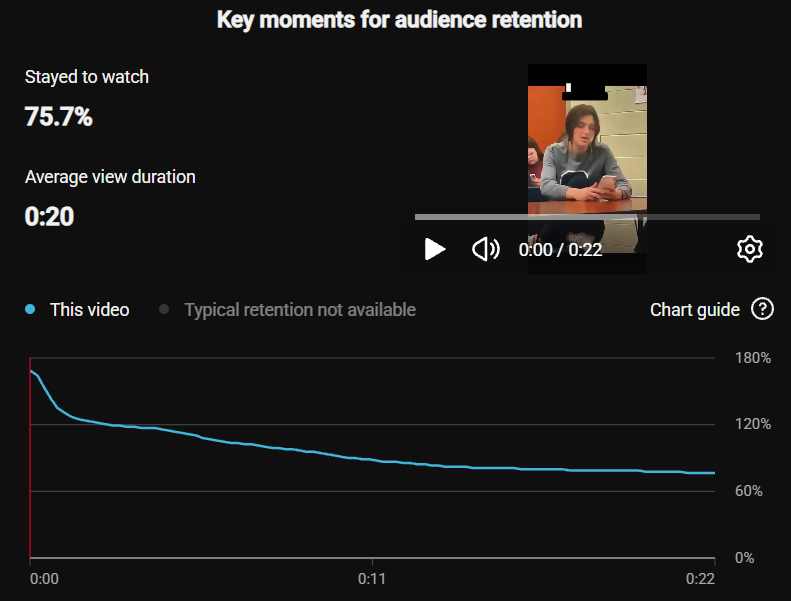
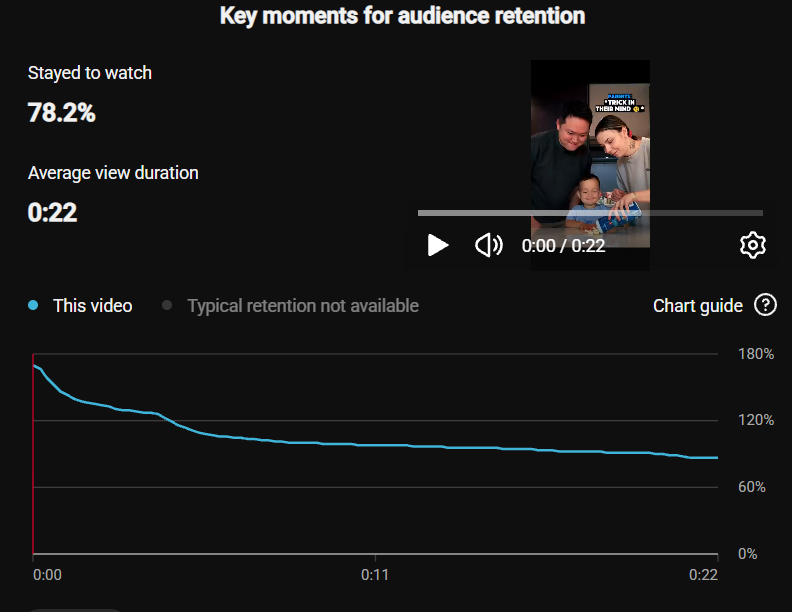
Nouveau meilleur short Still Good Here et nouvelle grille de prix
- Meilleur short Still Good Here : -D3tYyXXEng (86,4 M de vues,
  +60,9 K abonnés, 78,2 % de rétention), captures recadrées.
- crop-proofs gère les captures sans ligne de titre en coupant la
  colonne des revenus au lieu de la ligne des tuiles.
- Offres Pilote (3 shorts, 120 €), Starter (8, 600 €), Growth (12,
  840 €) et Scale (20, 1 300 €) ; dollars à 1,12 arrondis en prix
  psychologiques (139 / 679 / 949 / 1 449 $). Le pilote reste
  déductible du premier mois sous 14 jours.
- Badge du lecteur plus compact pour tenir sur mobile.

diff --git a/src/data/shared.ts b/src/data/shared.ts
@@ -30,7 +30,7 @@ export const shared: SharedData = {
       monetizedInWeeks: 3,
       views: 151_389_714,
       subscribers: 68_000,
-      bestShort: { youtubeId: 'EwW3RtiN73U', views: 37_869_620, subscribersGained: 15_000, stayedToWatch: 75.7 },
+      bestShort: { youtubeId: '-D3tYyXXEng', views: 86_400_000, subscribersGained: 60_900, stayedToWatch: 78.2 },
       proofs: [
         { kind: 'shortViews', image: sghShortViews },
         { kind: 'shortRetention', image: sghShortRetention },
@@ -71,13 +71,14 @@ export const shared: SharedData = {
     },
   ],
 
+  // Prices per month. USD = EUR × 1.12 (rate of late October 2026), rounded to a price ending in 9.
   pricing: {
     packages: [
-      { id: 'starter', shorts: 8, price: { eur: 400, usd: 450 } },
-      { id: 'growth', shorts: 12, price: { eur: 540, usd: 600 }, featured: true },
-      { id: 'scale', shorts: 20, price: { eur: 800, usd: 890 } },
+      { id: 'starter', name: 'Starter', shorts: 8, price: { eur: 600, usd: 679 } },
+      { id: 'growth', name: 'Growth', shorts: 12, price: { eur: 840, usd: 949 }, featured: true },
+      { id: 'scale', name: 'Scale', shorts: 20, price: { eur: 1300, usd: 1449 } },
     ],
-    trial: { shorts: 3, price: { eur: 90, usd: 99 }, deductibleWithinDays: 14 },
+    pilot: { shorts: 3, price: { eur: 120, usd: 139 }, deductibleWithinDays: 14 },
     availability: { show: false, spots: 0 },
   },
 

diff --git a/src/data/types.ts b/src/data/types.ts
@@ -15,8 +15,9 @@ export interface SharedData {
   channels: Channel[];
   demos: Demo[];
   pricing: {
-    packages: Array<{ id: string; shorts: number; price: Record<Currency, number>; featured?: boolean }>;
-    trial: { shorts: number; price: Record<Currency, number>; deductibleWithinDays: number };
+    packages: Array<{ id: string; name: string; shorts: number; price: Record<Currency, number>; featured?: boolean }>;
+    /** One-off first order, to test the collaboration before a monthly plan. */
+    pilot: { shorts: number; price: Record<Currency, number>; deductibleWithinDays: number };
     /** Shows "X spots left" above the plans when `show` is true. */
     availability: { show: boolean; spots: number };
   };
@@ -137,7 +138,7 @@ export interface Dictionary {
     spotsLeft: string;
     included: { title: string; items: string[] };
     delivery: string;
-    trial: { title: string; text: string };
+    pilot: { title: string; text: string };
     cta: string;
     notes: string[];
   };

diff --git a/src/data/fr.ts b/src/data/fr.ts
@@ -112,9 +112,9 @@ const fr: Dictionary = {
     },
     delivery:
       'Premiers shorts sous 5 jours ouvrés, puis un nouveau lot chaque semaine. Un tour de retouches par short, traité sous 48 h.',
-    trial: {
-      title: 'Pas encore sûr ? Commence par un essai.',
-      text: '{count} shorts pour {price}, déduits de ton premier mois si tu continues dans les {days} jours.',
+    pilot: {
+      title: 'Pas encore sûr ? Commence par le pilote.',
+      text: 'Pilote : {count} shorts pour {price} ({unit} par short), déduits de ton premier mois si tu continues dans les {days} jours.',
     },
     cta: 'Recevoir ma proposition',
     notes: [

diff --git a/src/data/en.ts b/src/data/en.ts
@@ -110,9 +110,9 @@ const en: Dictionary = {
       ],
     },
     delivery: 'First Shorts within 5 working days, then a new batch every week. One round of revisions per Short, done within 48 hours.',
-    trial: {
-      title: 'Not sure yet? Start with a trial.',
-      text: '{count} Shorts for {price}, deducted from your first month if you continue within {days} days.',
+    pilot: {
+      title: 'Not sure yet? Start with a pilot.',
+      text: 'Pilot: {count} Shorts for {price} ({unit} per Short), deducted from your first month if you continue within {days} days.',
     },
     cta: 'Get my proposal',
     notes: [

diff --git a/README.md b/README.md
@@ -32,7 +32,7 @@ Tu n'as jamais besoin de toucher aux composants. Tout est dans `src/data/` :
 | Les chiffres (vues, abonnés, rétention), la date des chiffres | `src/data/shared.ts` | `statsDate`, `channels` |
 | Les shorts mis en avant (ID YouTube) | `src/data/shared.ts` | `channels[].bestShort.youtubeId` |
 | Les démos de montage, la source et les minutages | `src/data/shared.ts` | `demos` |
-| Les prix (€ et $), l'essai, les places disponibles | `src/data/shared.ts` | `pricing` |
+| Les prix (€ et $, avec le taux utilisé en commentaire), le pilote, les places disponibles | `src/data/shared.ts` | `pricing` |
 | L'adresse e-mail affichée | `src/data/shared.ts` | `site.email` |
 | SIREN, TVA, hébergeur | `src/data/shared.ts` | `legal` |
 | Le token Cloudflare Web Analytics | `src/data/shared.ts` | `analytics.cloudflareToken` |
@@ -63,7 +63,7 @@ Les chiffres du haut de page, de la section « Qui je suis », de la description
 
 ### Créer le formulaire Tally
 
-Crée un formulaire par langue sur [tally.so](https://tally.so) avec 3 champs : e-mail (obligatoire), lien de la chaîne ou du podcast (obligatoire), forfait souhaité (facultatif : 8, 12, 20, essai). Colle chaque lien dans `contact.formUrl`. Tant que le champ est vide, les boutons ouvrent un e-mail à la place.
+Crée un formulaire par langue sur [tally.so](https://tally.so) avec 3 champs : e-mail (obligatoire), lien de la chaîne ou du podcast (obligatoire), forfait souhaité (facultatif : Pilote, Starter, Growth, Scale). Colle chaque lien dans `contact.formUrl`. Tant que le champ est vide, les boutons ouvrent un e-mail à la place.
 
 ### Activer Cloudflare Web Analytics (sans cookie)
 
